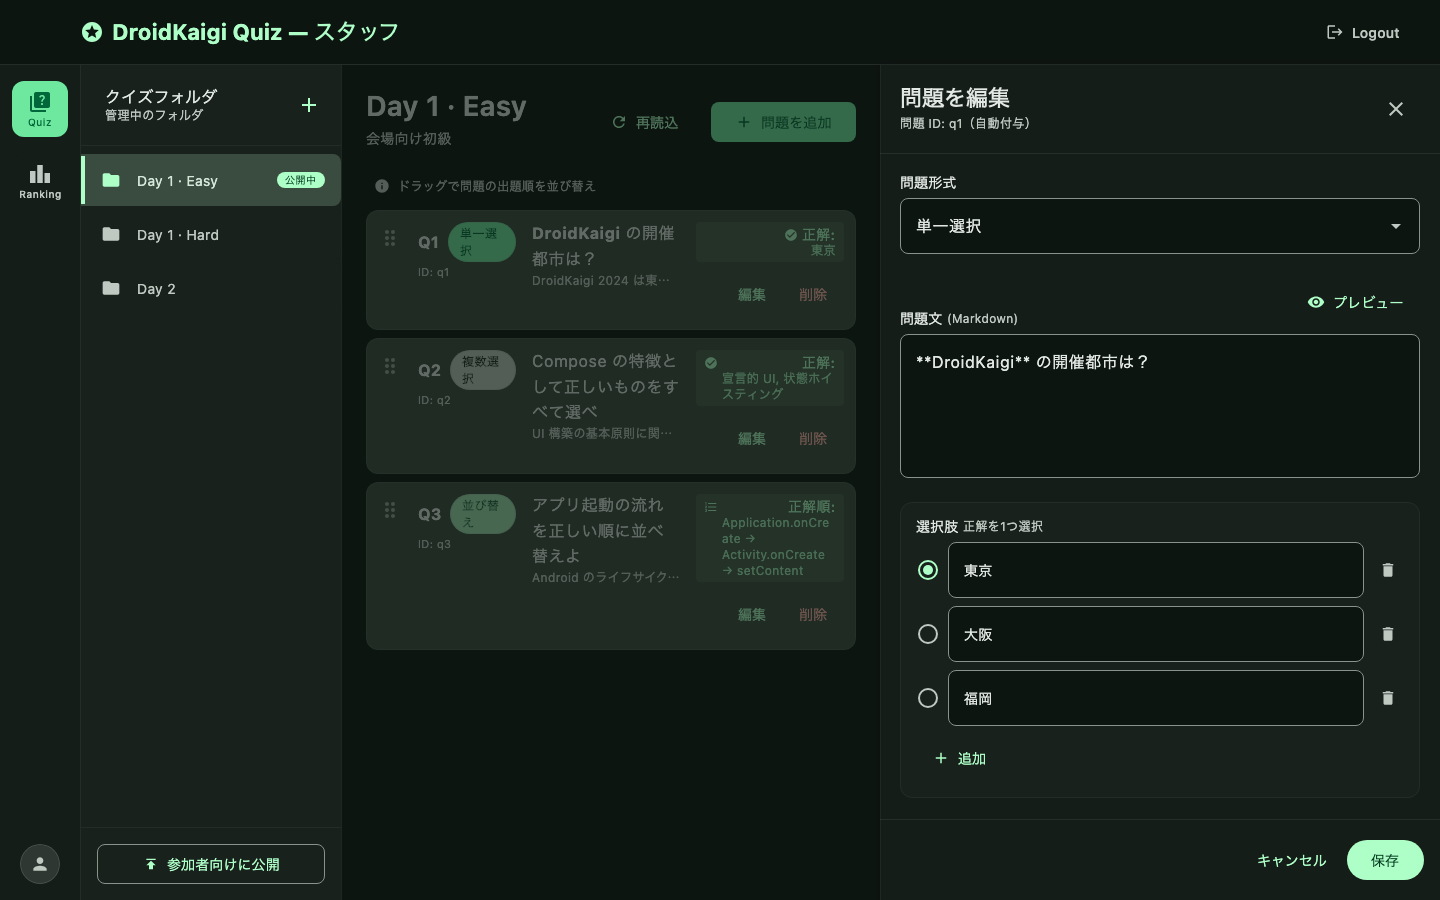
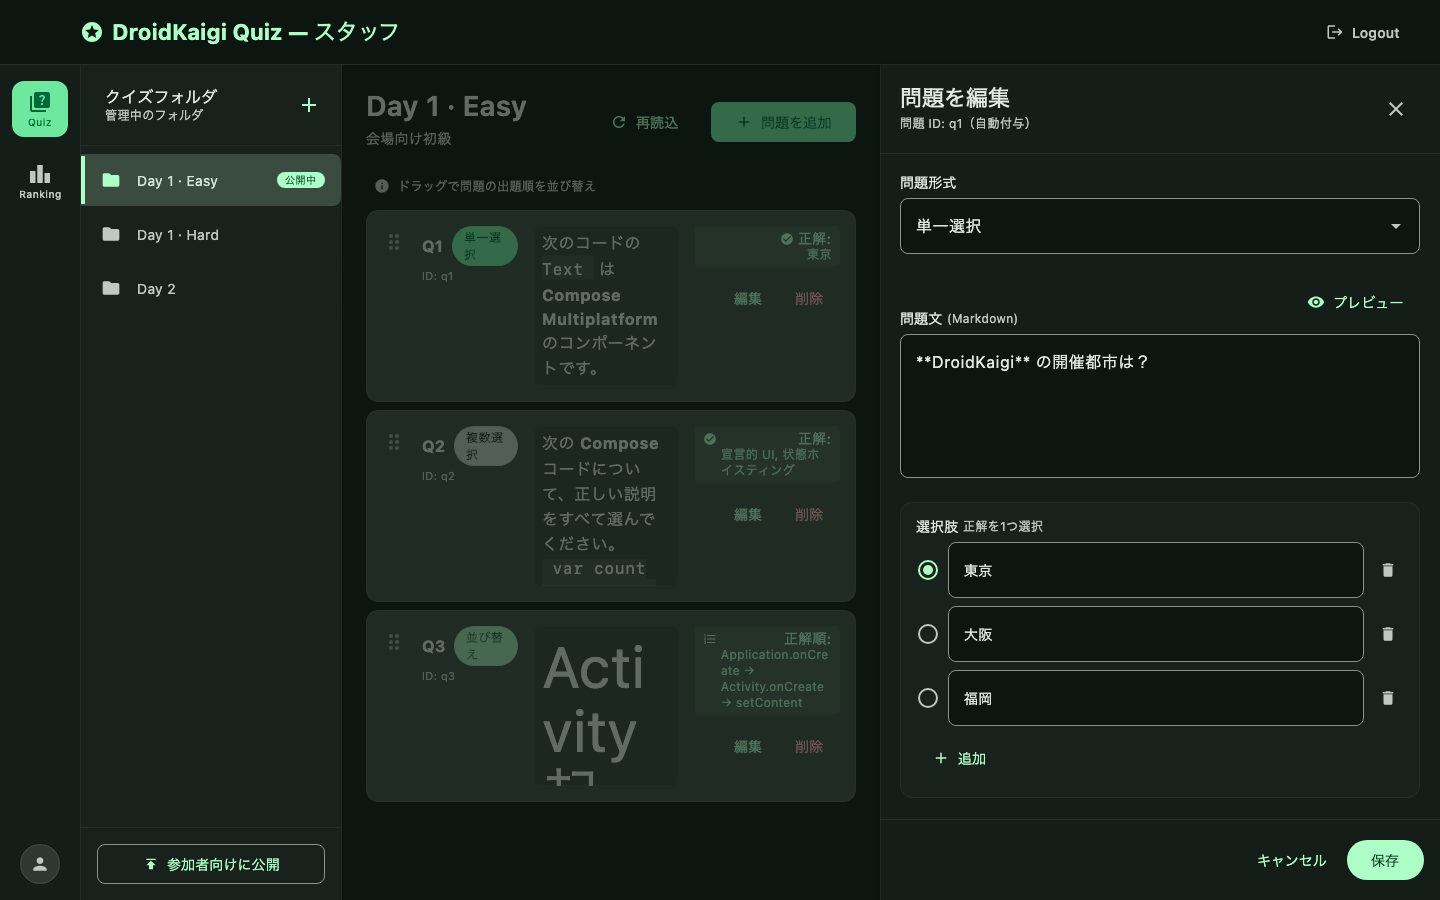
Make long staff question prompts scrollable.
Increase question-card height, contain Markdown in a scrollable viewport, cap long correct answers, and remove the obsolete neutral badge.

diff --git a/feature/staff/src/commonMain/kotlin/com/droidkaigi/quiz/feature/staff/quiz/StaffQuizScreen.kt b/feature/staff/src/commonMain/kotlin/com/droidkaigi/quiz/feature/staff/quiz/StaffQuizScreen.kt
@@ -17,7 +17,9 @@ import androidx.compose.foundation.layout.heightIn
 import androidx.compose.foundation.layout.padding
 import androidx.compose.foundation.layout.size
 import androidx.compose.foundation.layout.width
+import androidx.compose.foundation.rememberScrollState
 import androidx.compose.foundation.shape.RoundedCornerShape
+import androidx.compose.foundation.verticalScroll
 import androidx.compose.material.icons.Icons
 import androidx.compose.material.icons.filled.Add
 import androidx.compose.material.icons.filled.CheckCircle
@@ -39,7 +41,6 @@ import androidx.compose.runtime.setValue
 import androidx.compose.ui.Alignment
 import androidx.compose.ui.Modifier
 import androidx.compose.ui.draw.clip
-import androidx.compose.ui.draw.clipToBounds
 import androidx.compose.ui.draw.shadow
 import androidx.compose.ui.text.font.FontWeight
 import androidx.compose.ui.text.style.TextOverflow
@@ -53,10 +54,10 @@ import com.droidkaigi.quiz.core.domain.model.SingleChoice
 import com.droidkaigi.quiz.core.ui.components.QuizMarkdownText
 import com.droidkaigi.quiz.core.ui.theme.QuizTokens
 import com.droidkaigi.quiz.feature.staff.StaffConfirmDialog
+import com.droidkaigi.quiz.feature.staff.components.StaffContentPane
 import com.droidkaigi.quiz.feature.staff.components.StaffFilledButton
 import com.droidkaigi.quiz.feature.staff.components.StaffQuestionTypeChip
 import com.droidkaigi.quiz.feature.staff.components.StaffQuestionTypeTone
-import com.droidkaigi.quiz.feature.staff.components.StaffContentPane
 import com.droidkaigi.quiz.feature.staff.components.StaffSectionHeader
 import com.droidkaigi.quiz.feature.staff.components.StaffTextButton
 import com.droidkaigi.quiz.feature.staff.components.staffDividerColor
@@ -243,11 +244,12 @@ internal fun StaffQuestionCard(
     Row(
         modifier = modifier
             .fillMaxWidth()
+            .heightIn(min = 192.dp)
             .shadow(if (isDragging) 8.dp else 0.dp, RoundedCornerShape(QuizTokens.cornerMedium))
             .clip(RoundedCornerShape(QuizTokens.cornerMedium))
             .background(MaterialTheme.colorScheme.secondaryContainer)
             .border(1.dp, staffDividerColor(), RoundedCornerShape(QuizTokens.cornerMedium))
-            .padding(QuizTokens.spacingMedium - 4.dp),
+            .padding(QuizTokens.spacingMedium),
         verticalAlignment = Alignment.Top,
     ) {
         Icon(
@@ -281,24 +283,13 @@ internal fun StaffQuestionCard(
             )
         }
         Spacer(modifier = Modifier.width(QuizTokens.spacingMedium))
-        Column(
+        StaffQuestionMarkdownViewport(
+            prompt = question.prompt,
+            explanation = question.explanationMarkdown,
             modifier = Modifier
                 .weight(1.5f)
-                .heightIn(max = 96.dp)
-                .clipToBounds(),
-        ) {
-            QuizMarkdownText(question.prompt)
-            if (question.explanationMarkdown.isNotBlank()) {
-                Spacer(modifier = Modifier.height(4.dp))
-                Text(
-                    text = question.explanationMarkdown,
-                    style = MaterialTheme.typography.bodySmall,
-                    color = MaterialTheme.colorScheme.onSurfaceVariant,
-                    maxLines = 1,
-                    overflow = TextOverflow.Ellipsis,
-                )
-            }
-        }
+                .height(160.dp),
+        )
         Spacer(modifier = Modifier.width(QuizTokens.spacingMedium))
         Column(
             modifier = Modifier.weight(1.5f),
@@ -356,8 +347,33 @@ private fun StaffCorrectAnswerChip(question: Question) {
                     style = MaterialTheme.typography.bodySmall,
                     color = MaterialTheme.colorScheme.primary.copy(alpha = 0.9f),
                     softWrap = true,
+                    maxLines = 4,
+                    overflow = TextOverflow.Ellipsis,
                 )
             }
+        }
+    }
+}
+
+@Composable
+private fun StaffQuestionMarkdownViewport(prompt: String, explanation: String, modifier: Modifier = Modifier) {
+    val scrollState = rememberScrollState()
+    Column(
+        modifier = modifier
+            .clip(RoundedCornerShape(QuizTokens.cornerSmall))
+            .background(MaterialTheme.colorScheme.surface.copy(alpha = 0.16f))
+            .border(1.dp, staffDividerColor(0.12f), RoundedCornerShape(QuizTokens.cornerSmall))
+            .verticalScroll(scrollState)
+            .padding(horizontal = QuizTokens.spacingSmall, vertical = 6.dp),
+    ) {
+        QuizMarkdownText(prompt)
+        if (explanation.isNotBlank()) {
+            Spacer(modifier = Modifier.height(QuizTokens.spacingSmall))
+            Text(
+                text = explanation,
+                style = MaterialTheme.typography.bodySmall,
+                color = MaterialTheme.colorScheme.onSurfaceVariant,
+            )
         }
     }
 }

diff --git a/feature/staff/src/jvmTest/kotlin/com/droidkaigi/quiz/feature/staff/StaffScreenshotJvmUiTest.kt b/feature/staff/src/jvmTest/kotlin/com/droidkaigi/quiz/feature/staff/StaffScreenshotJvmUiTest.kt
@@ -339,7 +339,16 @@ private val sampleShellState = StaffShellUiState(
 private val sampleQuestions = listOf(
     SingleChoice(
         id = "q1",
-        prompt = "**DroidKaigi** の開催都市は？",
+        prompt = """
+            次のコードの `Text` は **Compose Multiplatform** のコンポーネントです。
+
+            ```kotlin
+            @Composable
+            fun Greeting() {
+                Text("Hello, DroidKaigi!")
+            }
+            ```
+        """.trimIndent(),
         explanationMarkdown = "DroidKaigi 2024 は東京で開催されます。",
         options = listOf(
             ChoiceOption("opt1", "東京"),
@@ -350,7 +359,11 @@ private val sampleQuestions = listOf(
     ),
     MultipleChoice(
         id = "q2",
-        prompt = "Compose の特徴として正しいものをすべて選べ",
+        prompt = """
+            次の **Compose** コードについて、正しい説明をすべて選んでください。
+
+            `var count by remember { mutableStateOf(0) }`
+        """.trimIndent(),
         explanationMarkdown = "UI 構築の基本原則に関する問題",
         options = listOf(
             ChoiceOption("opt1", "宣言的 UI"),
@@ -361,7 +374,11 @@ private val sampleQuestions = listOf(
     ),
     Reorder(
         id = "q3",
-        prompt = "アプリ起動の流れを正しい順に並べ替えよ",
+        prompt = """
+            # Activity 起動〜描画
+
+            アプリ起動の流れを正しい順に並べ替えてください。
+        """.trimIndent(),
         explanationMarkdown = "Android のライフサイクルと初期化プロセス",
         items = listOf(
             ReorderItem("i1", "Application.onCreate"),

diff --git a/feature/staff/src/commonMain/kotlin/com/droidkaigi/quiz/feature/staff/components/StaffComponents.kt b/feature/staff/src/commonMain/kotlin/com/droidkaigi/quiz/feature/staff/components/StaffComponents.kt
@@ -139,22 +139,6 @@ fun StaffOutlinedButton(
     }
 }
 
-/** Neutral metadata chip (question id, etc.). */
-@Composable
-fun StaffBadge(text: String, modifier: Modifier = Modifier) {
-    Text(
-        text = text,
-        style = MaterialTheme.typography.labelMedium,
-        fontSize = 10.sp,
-        color = MaterialTheme.colorScheme.onSurface,
-        modifier = modifier
-            .clip(RoundedCornerShape(4.dp))
-            .background(MaterialTheme.colorScheme.surfaceVariant)
-            .border(1.dp, staffDividerColor(), RoundedCornerShape(4.dp))
-            .padding(horizontal = QuizTokens.spacingSmall, vertical = 2.dp),
-    )
-}
-
 /**
  * Color-coded question-type chip (Stitch: larger pill, distinct container tones).
  * Single → primaryContainer · Multiple → secondary · Reorder → tertiaryContainer.
@@ -163,8 +147,10 @@ fun StaffBadge(text: String, modifier: Modifier = Modifier) {
 fun StaffQuestionTypeChip(text: String, type: StaffQuestionTypeTone, modifier: Modifier = Modifier) {
     val background = when (type) {
         StaffQuestionTypeTone.SingleChoice -> MaterialTheme.colorScheme.primaryContainer
+
         // secondaryContainer matches question-card fill; use secondary for contrast on cards.
         StaffQuestionTypeTone.MultipleChoice -> MaterialTheme.colorScheme.secondary
+
         StaffQuestionTypeTone.Reorder -> MaterialTheme.colorScheme.tertiaryContainer
     }
     val content = when (type) {
